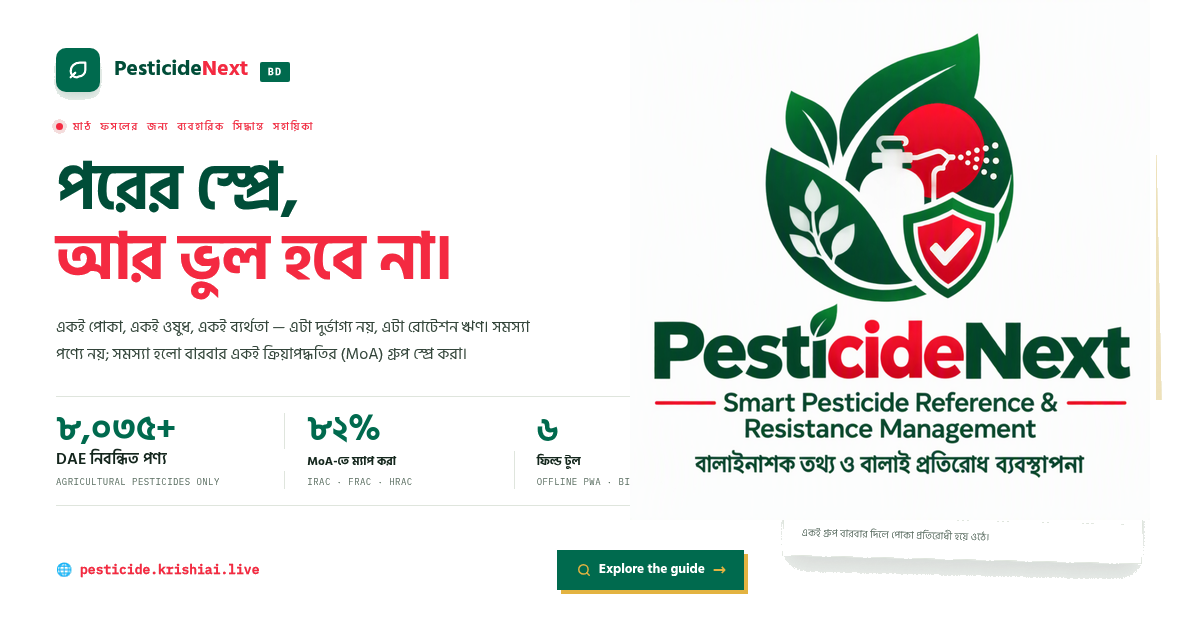
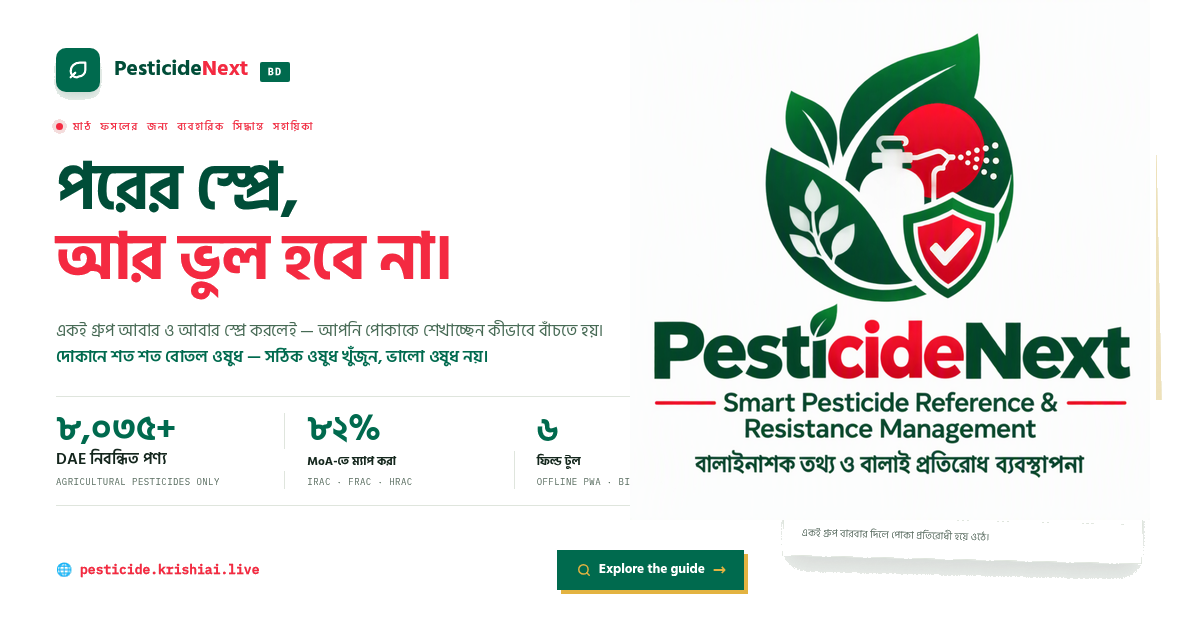
feat(copy): refresh tab hero dialogues + og-image hook subline
Tab heroes (bn + en), old lines demoted to ledes:
- Database: দোকানে শত শত বোতল ওষুধ — সঠিক ওষুধ খুঁজুন, ভালো ওষুধ নয়।
- Rotation Planner: একই গ্রুপ, আবার ও আবার — আপনি পোকাকে শেখাচ্ছেন কীভাবে বাঁচতে হয়।
- Safety: সবচেয়ে বিপজ্জনক মুহূর্তটা মাঠে হয় না — হয় বালতিতে, মেশানোর সময়।
- Spray Log: ভুলে যাওয়া প্রতিটা স্প্রে — পোকার বোনাস।
- Alerts: নিষেধাজ্ঞার খবর সবাই শোনে — তখন, যখন দোকানের তাক খালি।
- Guidebook: কম গেলে টাকা যায়, বেশি গেলে ফসল যায় — দুটোই আটকায় সঠিক হিসাব।

OG image (scripts/render-og-image.py v2): the two-line subline under the
headline now carries the strongest hooks (Rotation + Database, the latter
in brand-green 600) instead of the truncated Home lede; danda U+0964/0965
routed to the Bengali font subset — it lives in the Devanagari block and
was rendering as tofu.

Changed region(s): [[0.0308, 0.5127, 0.4933, 0.6032]]

diff --git a/src/components/Guidebook.tsx b/src/components/Guidebook.tsx
@@ -78,11 +78,11 @@ export const Guidebook: React.FC<GuidebookProps> = ({ products }) => {
   const copy = bn
     ? {
         eyebrow: 'মাঠপর্যায়ের কৃষিবিদ ও সম্প্রসারণ কর্মকর্তা হ্যান্ডবুক',
-        h1a: 'স্প্রে বুম থেকে',
-        h1b: 'ফসল তোলার ঝুড়ি —',
-        h1c: 'সব এক নির্দেশিকায়।',
+        h1a: 'কম গেলে টাকা যায়,',
+        h1b: 'বেশি গেলে ফসল যায় —',
+        h1c: 'দুটোই আটকায় সঠিক হিসাব।',
         lede:
-          'এই হ্যান্ডবুক ফিল্ড অফিসারদের জন্য সাজানো — ক্যালিব্রেশন গণিত, প্রতিরোধ ভাঙার ঘূর্ণন বিজ্ঞান, ট্যাংক মিক্সিং নিয়মাবলী (W.A.L.E.S.), এবং অফলাইনে ব্যবহারের জন্য ফসলভিত্তিক পিডিএফ গাইড। প্রতিটি অধ্যায় এমন একটি সিদ্ধান্ত যা কৃষকের হাতে পৌঁছানোর আগে ফিল্ড অফিসারকে চিন্তা করতে হবে।',
+          'এই হ্যান্ডবুক ফিল্ড অফিসারদের জন্য সাজানো — ক্যালিব্রেশন গণিত, প্রতিরোধ ভাঙার ঘূর্ণন বিজ্ঞান, ট্যাংক মিক্সিং নিয়মাবলী (W.A.L.E.S.), এবং অফলাইনে ব্যবহারের জন্য ফসলভিত্তিক পিডিএফ গাইড। প্রতিটি অধ্যায় এমন একটি সিদ্ধান্ত যা কৃষকের হাতে পৌঁছানোর আগে ফিল্ড অফিসারকে চিন্তা করতে হবে। স্প্রে বুম থেকে ফসল তোলার ঝুড়ি — সব এক নির্দেশিকায়।',
         trust1: 'সকল প্রোটোকল BARI · BRRI · DAE এবং IRAC · FRAC কমিটির অনুমোদিত নির্দেশিকা অনুসরণে প্রণীত।',
         trust2: 'ফসলভিত্তিক প্রতিটি গাইড অফলাইন ব্যবহারের জন্য পিডিএফে রপ্তানি করা যায়।',
         stickerKicker: '৫টি অধ্যায়',
@@ -169,11 +169,11 @@ export const Guidebook: React.FC<GuidebookProps> = ({ products }) => {
       }
     : {
         eyebrow: 'Field Agronomist Handbook & Reference Manual',
-        h1a: 'From spray boom',
-        h1b: 'to harvest basket —',
-        h1c: 'one field-ready manual.',
+        h1a: 'Too little wastes money,',
+        h1b: 'too much loses the harvest —',
+        h1c: 'the right math stops both.',
         lede:
-          'This handbook is organized for field officers — calibration mathematics, anti-resistance rotation science, tank-mix sequences (W.A.L.E.S.), and crop-wise PDF guides for offline use. Each chapter is a decision the field officer has to think through before it reaches the farmer.',
+          'This handbook is organized for field officers — calibration mathematics, anti-resistance rotation science, tank-mix sequences (W.A.L.E.S.), and crop-wise PDF guides for offline use. Each chapter is a decision the field officer has to think through before it reaches the farmer. From spray boom to harvest basket — one field-ready manual.',
         trust1: 'Every protocol compiled from BARI · BRRI · DAE and IRAC · FRAC committee-approved guidelines.',
         trust2: 'Each crop guide is exportable as a print-ready PDF for offline extension visits.',
         stickerKicker: 'Five chapters',

diff --git a/src/components/SafetyView.tsx b/src/components/SafetyView.tsx
@@ -132,10 +132,10 @@ export const SafetyView: React.FC<SafetyViewProps> = ({ products, onOpenSafetyMo
   const copy = bn
     ? {
         eyebrow: 'পেশাগত স্বাস্থ্য ও পরিবেশগত নিরাপত্তা নির্দেশিকা',
-        h1a: 'আপনার শরীরই',
-        h1b: 'সবচেয়ে গুরুত্বপূর্ণ যন্ত্র।',
+        h1a: 'সবচেয়ে বিপজ্জনক মুহূর্তটা মাঠে হয় না —',
+        h1b: 'হয় বালতিতে, মেশানোর সময়।',
         lede:
-          'প্রতিটি স্প্রে বোতলে এমন একটি রাসায়নিক আছে যা পোকা মারে — কিন্তু ভুল করলে সেটা আপনাকেও মারে। চেকলিস্টটি ১০ দফায় সাজানো — প্রতিটি দফা এমন একটি বিন্দু যেখানে একজন কৃষকের চোখ থাকা দরকার, কারণ সেখানেই এক্সপোজার ঘটে।',
+          'আপনার শরীরই সবচেয়ে গুরুত্বপূর্ণ যন্ত্র। প্রতিটি স্প্রে বোতলে এমন একটি রাসায়নিক আছে যা পোকা মারে — কিন্তু ভুল করলে সেটা আপনাকেও মারে। চেকলিস্টটি ১০ দফায় সাজানো — প্রতিটি দফা এমন একটি বিন্দু যেখানে একজন কৃষকের চোখ থাকা দরকার, কারণ সেখানেই এক্সপোজার ঘটে।',
         ctaReset: 'চেকলিস্ট রিসেট',
         ctaPdf: 'পিডিএফ শিট ডাউনলোড',
         trust1: 'WHO শ্রেণিবিভাগ অনুসারে লাল ব্যান্ড মানে চরম বিপজ্জনক, সবুজ মানে তুলনামূলক নিরাপদ।',
@@ -201,10 +201,10 @@ export const SafetyView: React.FC<SafetyViewProps> = ({ products, onOpenSafetyMo
       }
     : {
         eyebrow: 'Field Occupational Health & Environmental Safety Directive',
-        h1a: 'Your body is',
-        h1b: "the field's most valuable tool.",
+        h1a: "The most dangerous moment isn't the spray —",
+        h1b: "it's the mixing, at the bucket.",
         lede:
-          'Every spray bottle contains a chemical that kills pests — but applied wrong, the same chemical can poison you. This checklist is organized into ten decision points — each one is a moment where a farmer needs eyes on, because that is exactly where exposure happens.',
+          'Your body is the field\u2019s most valuable tool. Every spray bottle contains a chemical that kills pests — but applied wrong, the same chemical can poison you. This checklist is organized into ten decision points — each one is a moment where a farmer needs eyes on, because that is exactly where exposure happens.',
         ctaReset: 'Reset checklist',
         ctaPdf: 'Download PDF sheet',
         trust1: 'WHO classification: the red band means extreme hazard, the green band means relatively safe.',

diff --git a/src/components/SprayLogView.tsx b/src/components/SprayLogView.tsx
@@ -236,10 +236,10 @@ export const SprayLogView: React.FC<SprayLogViewProps> = ({ products, onNavigate
   // ---- copy ----
   const copy = {
     eyebrow: bn ? 'আমার জমি ও স্প্রে ইতিহাস' : 'MY FIELD & SPRAY HISTORY',
-    h1: bn ? 'পরের স্প্রে কী হবে — জমি বলে দেবে।' : 'The next spray is decided by what the field remembers.',
+    h1: bn ? 'ভুলে যাওয়া প্রতিটা স্প্রে — পোকার বোনাস।' : 'Every spray you forget to log is a bonus for the pest.',
     lede: bn
-      ? 'প্রতিটি স্প্রে লগ করুন। অ্যাপ মনে রাখবে কোন গ্রুপ ব্যবহার হয়েছে — যাতে একই MoA বারবার না হয় এবং পোকা প্রতিরোধী না হয়।'
-      : 'Log every spray. The app remembers which group was used — so the same MoA is not repeated and pests cannot build resistance.',
+      ? 'পরের স্প্রে কী হবে — জমি বলে দেবে। প্রতিটি স্প্রে লগ করুন। অ্যাপ মনে রাখবে কোন গ্রুপ ব্যবহার হয়েছে — যাতে একই MoA বারবার না হয় এবং পোকা প্রতিরোধী না হয়।'
+      : 'The next spray is decided by what the field remembers. Log every spray. The app remembers which group was used — so the same MoA is not repeated and pests cannot build resistance.',
     empty: bn
       ? 'এখনো কোনো স্প্রে লগ করা হয়নি। প্রথম এন্ট্রি যোগ করুন।'
       : 'No sprays logged yet. Add your first entry to start tracking rotation.',

diff --git a/src/components/DatabaseView.tsx b/src/components/DatabaseView.tsx
@@ -1034,8 +1034,8 @@ export const DatabaseView: React.FC<DatabaseViewProps> = ({
   const copy = bn
     ? {
         eyebrow: `${catalogueCountLabel}+ নিবন্ধিত পণ্যের সম্পূর্ণ ডাটাবেস`,
-        h1a: 'সঠিক ওষুধ খুঁজুন,',
-        h1b: 'ভুল ওষুধ নয়।',
+        h1a: 'দোকানে শত শত বোতল ওষুধ —',
+        h1b: 'সঠিক ওষুধ খুঁজুন, ভালো ওষুধ নয়।',
         lede:
           'প্রতিটি কৃষক কখনো "সব থেকে ভালো ওষুধ" খোঁজে না — সে খোঁজে তার ফসলের পোকার জন্য নিবন্ধিত সঠিক ওষুধ। এই ডাটাবেস সেই সঠিক ওষুধ খুঁজে দেয় — ফসল, পোকা, MoA গ্রুপ ও WHO বিপদ ব্যান্ড দিয়ে।',
         trust1: 'সকল পণ্য DAE-নিবন্ধিত, রেজি. নম্বর সহ যাচাইযোগ্য।',
@@ -1058,8 +1058,8 @@ export const DatabaseView: React.FC<DatabaseViewProps> = ({
       }
     : {
         eyebrow: `${catalogueCountLabel}+ registered products, full catalogue`,
-        h1a: 'Find the right chemical,',
-        h1b: 'not just any chemical.',
+        h1a: 'Hundreds of bottles at the shop —',
+        h1b: 'find the right chemical, not just a good one.',
         lede:
           'No farmer asks for "the best pesticide" — they ask for the right registered chemical for their crop and pest. This database finds that right chemical, filtered by crop, pest, MoA group, and WHO hazard band.',
         trust1: 'Every product is DAE-registered, with verifiable registration numbers.',

diff --git a/src/components/NotificationCenter.tsx b/src/components/NotificationCenter.tsx
@@ -167,8 +167,8 @@ export const NotificationCenter: React.FC<NotificationCenterProps> = ({
   const copy = bn
     ? {
         eyebrow: 'সরকারি নজরদারি ও ফিল্ড টেলিমেট্রি পুশ অ্যালার্ট',
-        h1a: 'নিয়ন্ত্রণ আদেশ আসবে —',
-        h1b: 'আপনাকে অবাক করবে না।',
+        h1a: 'নিষেধাজ্ঞার খবর সবাই শোনে —',
+        h1b: 'তখন, যখন দোকানের তাক খালি।',
         lede:
           'প্রতিটি মৌসুমে নতুন নিষেধাজ্ঞা, নতুন পোকা আক্রমণ, নতুন আবহাওয়া সতর্কতা — কৃষকের কাছে এগুলো অপ্রত্যাশিত নয়, শুধু তাকে আগে জানানো দরকার। এই ফিড সেই জানানোর জায়গা।',
         ctaEnable: 'পুশ নোটিফিকেশন চালু করুন',
@@ -231,8 +231,8 @@ export const NotificationCenter: React.FC<NotificationCenterProps> = ({
       }
     : {
         eyebrow: 'Compliance Watch & Field Telemetry Push Alerts',
-        h1a: 'Regulations will land —',
-        h1b: "they won't surprise you.",
+        h1a: 'Everyone hears about the ban —',
+        h1b: 'when the shelf is already empty.',
         lede:
           'Every season brings new bans, new pest outbreaks, new weather advisories — to a farmer these are never unexpected, they only need to be told ahead of time. This feed is where the telling happens.',
         ctaEnable: 'Enable device push notifications',

diff --git a/src/components/RotationPlanner.tsx b/src/components/RotationPlanner.tsx
@@ -247,9 +247,9 @@ export const RotationPlanner: React.FC<RotationPlannerProps> = ({
             </p>
             <h1 className="acg-rp-h1">
               {language === 'bn' ? (
-                <>একই ওষুধ বারবার — <em>আর কাজ করে না।</em></>
+                <>একই গ্রুপ, আবার ও আবার — <em>আপনি পোকাকে শেখাচ্ছেন কীভাবে বাঁচতে হয়।</em></>
               ) : (
-                <>Same spray, again and again — <em>and it stops working.</em></>
+                <>Same group, spray after spray — <em>you're teaching the pest how to survive.</em></>
               )}
             </h1>
 

diff --git a/scripts/render-og-image.py b/scripts/render-og-image.py
@@ -1,5 +1,6 @@
 #!/usr/bin/env python3
-"""Regenerate the stats block of public/og-image.png (1200x630 social preview).
+"""Regenerate the stats block and hero-dialogue subline of public/og-image.png
+(1200x630 social preview).
 
 The artwork itself is static; this script keeps its NUMBERS in sync with the
 published runtime database (public/downloads/pesticide_database.json):
@@ -8,8 +9,9 @@ published runtime database (public/downloads/pesticide_database.json):
   stat 2  ৮২%      MoA-তে ম্যাপ করা / IRAC . FRAC . HRAC
   stat 3  ৬        ফিল্ড টুল / OFFLINE PWA . BILINGUAL   (unchanged here)
 
-It erases the two stale number lines (columns 1-2) and the column-1 label,
-then redraws them with the site fonts (Hind Siliguri 700/600 — the woff2
+It also refreshes the two-line hero-dialogue subline under the headline with
+the current tab hooks (Rotation Planner + Database), then redraws stats and
+the col-1 label with the site fonts (Hind Siliguri 700/600/400 — the woff2
 subsets in public/fonts are decompressed to TTF in a temp dir at runtime).
 Bengali glyph shaping uses libraqm (PIL must be built with it: it is, via
 pillow built with raqm on this machine and on GH Actions runners).
@@ -46,6 +48,14 @@ def bn(n: int) -> str:
 STAT1 = f"{bn(agri)}+"        # was ৫,০৫২+ — an old-register count
 STAT2 = f"{bn(moa_pct)}%"     # was ৯৬%
 LABEL1 = "DAE নিবন্ধিত পণ্য"   # was "DAE নিবন্ধিত ফসল"
+
+# --- hero-dialogue subline (the two small lines under the headline) ---------
+HOOK1 = "একই গ্রুপ আবার ও আবার স্প্রে করলেই — আপনি পোকাকে শেখাচ্ছেন কীভাবে বাঁচতে হয়।"  # Rotation Planner
+HOOK2 = "দোকানে শত শত বোতল ওষুধ — সঠিক ওষুধ খুঁজুন, ভালো ওষুধ নয়।"                     # Database
+SUBLINE_BOX = (45, 310, 625, 374)     # both rows; headline descends to ~305,
+                                      # divider rule starts ~388 — stay inside
+HOOK1_BASELINE, HOOK2_BASELINE = 336, 362
+SUBLINE_RIGHT = 618                   # right panel edge ~615 — hard stop
 # ----------------------------------------------------------------------------
 
 # erase zones (measured on the 1200x630 artwork; keep clear of neighbours)
@@ -128,6 +138,29 @@ def sample_ink_color(img, box, thr=350):
     return tuple(np.median(dark, axis=0).astype(int)) if len(dark) else (0, 0, 0)
 
 
+def split_runs(text, f_bn, f_lat):
+    """Split text into consecutive (chunk, font) runs by script: Bengali block
+    plus danda U+0964/U+0965 (they live in the Devanagari block!) -> f_bn;
+    comma / em-dash / latin -> f_lat. Spaces stick to the current run so words
+    never split mid-run."""
+    runs, cur, cur_is_bn = [], "", None
+    for ch in text:
+        if ch == " " and cur:
+            cur += ch
+            continue
+        is_bn = 0x0980 <= ord(ch) <= 0x09FF or ord(ch) in (0x0964, 0x0965)
+        if cur_is_bn is None:
+            cur, cur_is_bn = ch, is_bn
+        elif is_bn == cur_is_bn:
+            cur += ch
+        else:
+            runs.append((cur, f_bn if cur_is_bn else f_lat))
+            cur, cur_is_bn = ch, is_bn
+    if cur:
+        runs.append((cur, f_bn if cur_is_bn else f_lat))
+    return runs
+
+
 def main():
     with tempfile.TemporaryDirectory() as td:
         outdir = Path(td)
@@ -162,11 +195,40 @@ def main():
         lbl_runs = [("DAE ", f_lbl_lat), ("নিবন্ধিত পণ্য", f_lbl_bn)]
         draw_runs_at_ink(draw, lbl_runs, 57, LBL_BASELINE, label_col)
 
+        # hero-dialogue subline: the old truncated Home lede becomes the two
+        # tab hooks. Line 1 (Rotation hook) keeps the body-gray 400 weight;
+        # line 2 (Database hook) takes the brand green in 600 for emphasis.
+        sub_left, sub_col = 45, (70, 78, 72)
+        bb = ink_bbox(im.crop(SUBLINE_BOX))
+        if bb:
+            sub_left = SUBLINE_BOX[0] + bb[0]
+        old_sub_col = sample_ink_color(im, SUBLINE_BOX, thr=450)
+        if sum(old_sub_col) < 450:
+            sub_col = old_sub_col
+        draw.rectangle(SUBLINE_BOX, fill=white)
+
+        size_sub = fit_size("400", "bengali", HOOK1, 17, outdir)
+        f1b = load_font("400", "bengali", size_sub, outdir)
+        f1l = load_font("400", "latin", size_sub, outdir)
+        h1_runs = split_runs(HOOK1, f1b, f1l)
+        while size_sub > 8 and sum(f.getlength(t) for t, f in h1_runs) \
+                > SUBLINE_RIGHT - sub_left:
+            size_sub -= 1
+            f1b = load_font("400", "bengali", size_sub, outdir)
+            f1l = load_font("400", "latin", size_sub, outdir)
+            h1_runs = split_runs(HOOK1, f1b, f1l)
+        f2b = load_font("600", "bengali", size_sub, outdir)
+        f2l = load_font("600", "latin", size_sub, outdir)
+        h2_runs = split_runs(HOOK2, f2b, f2l)
+
+        draw_runs_at_ink(draw, h1_runs, sub_left, HOOK1_BASELINE, sub_col)
+        draw_runs_at_ink(draw, h2_runs, sub_left, HOOK2_BASELINE, green)
+
         im.save(IMG)
         print(f"og-image.png updated: stat1={STAT1} agri={agri}/{total} "
               f"stat2={STAT2} moa={moa_pct}% "
-              f"[num {size_num}px, label {size_lbl}px, green={green}, "
-              f"label_col={label_col}]")
+              f"[num {size_num}px, label {size_lbl}px, sub {size_sub}px "
+              f"@x{sub_left}, green={green}, sub_col={sub_col}]")
 
 
 if __name__ == "__main__":
